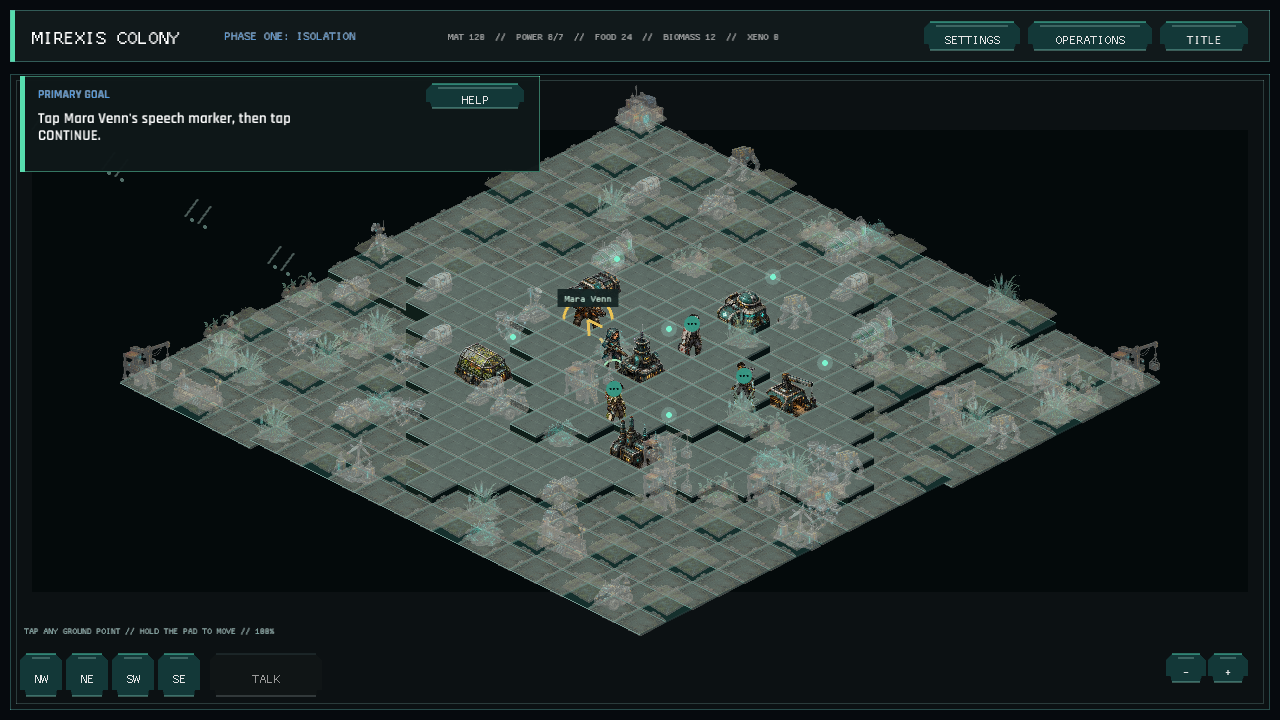
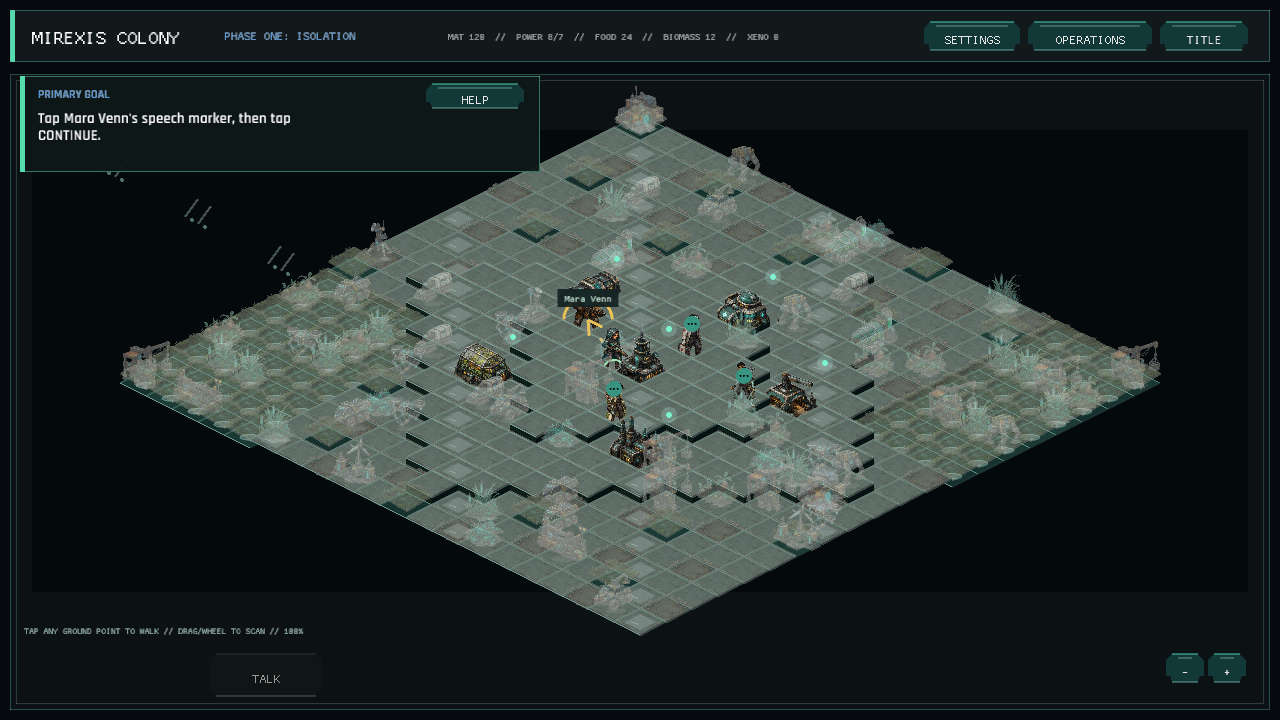
The mire floor remembers its wet ground and every scout finds their footing (map terrain and sprite rendering)
The battlefield and colony floor were relying on repeated dark surfaces, while character grounding and a few authored silhouettes changed scale between scenes. Reuse the existing atlases with deterministic wetland, threshold, and amber surface variants, add isometric surface seams and cliff rims, and give the town shallow basin and inset moss detail. Move contact shadows into the shared VisualCatalog sprite path and normalize the outlier sprite scales so colony inhabitants and tactical units share one visual baseline. Refresh the canonical colony and combat verification captures to record the result.

Verified with cargo test (527 unit tests plus asset registry and code standards), cargo fmt -- --check, git diff --check, the 800-line Rust source audit, and the full publish.ps1 Windows/WebGL preview deployment. The capture harness refreshed ui_colony.png, ui_gameplay.png, and ui_second_operation_tactical.png.

diff --git a/src/colony_map_ui/terrain.rs b/src/colony_map_ui/terrain.rs
@@ -30,15 +30,21 @@ pub(super) fn draw_ground(
         top[2],
         top[1],
     );
-    draw_fill(top, top_color);
+    draw_fill(
+        top,
+        surface_color(top_color, position, view.elevation(position)),
+    );
 
     let pattern = (position[0] * 41 + position[1] * 67).unsigned_abs();
-    let cell = if occupied || view.elevation(position) > 0 {
+    let elevation = view.elevation(position);
+    let cell = if occupied || elevation > 0 {
         0
-    } else if pattern.is_multiple_of(5) {
+    } else if elevation < 0 || pattern % 11 == 0 {
         8
-    } else {
+    } else if pattern % 5 == 0 {
         1
+    } else {
+        0
     };
     let art_size = view.half_width * 2.12;
     visuals.draw_atlas_cell(
@@ -51,8 +57,88 @@ pub(super) fn draw_ground(
             art_size,
             art_size,
         ),
-        Color::new(0.72, 0.88, 0.78, if hovered { 0.80 } else { 0.58 }),
+        terrain_art_tint(cell, hovered),
     );
+    draw_surface_detail(view, center, position, elevation, occupied, hovered);
+}
+
+fn surface_color(base: Color, position: [i32; 2], elevation: i8) -> Color {
+    let variation = ((position[0] * 13 + position[1] * 29).unsigned_abs() % 5) as f32 * 0.008;
+    let lift = f32::from(elevation.max(0)) * 0.012;
+    Color::new(
+        (base.r + variation + lift).min(1.0),
+        (base.g + variation * 1.5 + lift).min(1.0),
+        (base.b + variation + lift * 0.7).min(1.0),
+        base.a,
+    )
+}
+
+fn terrain_art_tint(cell: usize, hovered: bool) -> Color {
+    let alpha = if hovered { 0.84 } else { 0.64 };
+    match cell {
+        8 => Color::new(0.64, 0.92, 0.70, alpha),
+        1 => Color::new(0.84, 0.88, 0.76, alpha),
+        _ => Color::new(0.76, 0.92, 0.82, alpha),
+    }
+}
+
+fn draw_surface_detail(
+    view: ColonyView,
+    center: Vec2,
+    position: [i32; 2],
+    elevation: i8,
+    occupied: bool,
+    hovered: bool,
+) {
+    let pattern = (position[0] * 23 + position[1] * 47).unsigned_abs();
+    if elevation < 0 && !occupied {
+        draw_ellipse(
+            center.x,
+            center.y + view.half_height * 0.18,
+            view.half_width * 0.38,
+            view.half_height * 0.22,
+            0.0,
+            Color::new(0.08, 0.34, 0.32, if hovered { 0.30 } else { 0.20 }),
+        );
+        draw_ellipse_lines(
+            center.x,
+            center.y + view.half_height * 0.18,
+            view.half_width * 0.38,
+            view.half_height * 0.22,
+            0.0,
+            1.0,
+            Color::new(0.24, 0.66, 0.55, if hovered { 0.60 } else { 0.34 }),
+        );
+    } else if !occupied && pattern % 7 == 0 {
+        let patch = [
+            vec2(center.x, center.y - view.half_height * 0.62),
+            vec2(center.x + view.half_width * 0.62, center.y),
+            vec2(center.x, center.y + view.half_height * 0.62),
+            vec2(center.x - view.half_width * 0.62, center.y),
+        ];
+        draw_fill(
+            patch,
+            Color::new(0.10, 0.25, 0.22, if hovered { 0.42 } else { 0.24 }),
+        );
+        draw_line(
+            center.x - view.half_width * 0.34,
+            center.y - view.half_height * 0.02,
+            center.x - view.half_width * 0.08,
+            center.y + view.half_height * 0.18,
+            1.0,
+            Color::new(0.30, 0.64, 0.52, if hovered { 0.52 } else { 0.28 }),
+        );
+    }
+    if elevation > 0 {
+        draw_line(
+            center.x,
+            center.y - view.half_height,
+            center.x + view.half_width * 0.72,
+            center.y - view.half_height * 0.30,
+            1.0,
+            Color::new(0.42, 0.76, 0.60, if hovered { 0.62 } else { 0.34 }),
+        );
+    }
 }
 
 fn diamond(view: ColonyView, center: Vec2) -> [Vec2; 4] {
@@ -90,4 +176,5 @@ fn draw_cliff(view: ColonyView, position: [i32; 2], neighbor: [i32; 2], a: Vec2,
         1.0,
         Color::new(0.22, 0.44, 0.34, 0.55),
     );
+    draw_line(a.x, a.y, b.x, b.y, 1.0, Color::new(0.30, 0.58, 0.46, 0.62));
 }

diff --git a/src/tactical_map_ui.rs b/src/tactical_map_ui.rs
@@ -244,15 +244,15 @@ fn draw_terrain_tile(
     draw_exposed_cliffs(view, position, top);
     let parity = ((position.x * 17 + position.y * 31).unsigned_abs() % 3) as f32;
     let top_color = if blocked {
-        Color::new(0.20 + parity * 0.012, 0.16, 0.12, 1.0)
+        Color::new(0.22 + parity * 0.014, 0.17, 0.12, 1.0)
     } else if elevation >= 2 {
-        Color::new(0.15 + parity * 0.008, 0.23, 0.21, 1.0)
+        Color::new(0.16 + parity * 0.010, 0.27, 0.24, 1.0)
     } else if elevation == 1 {
-        Color::new(0.11 + parity * 0.008, 0.18, 0.17, 1.0)
+        Color::new(0.12 + parity * 0.010, 0.21, 0.19, 1.0)
     } else if elevation < 0 {
-        Color::new(0.045 + parity * 0.005, 0.095, 0.11, 1.0)
+        Color::new(0.05 + parity * 0.006, 0.11, 0.14, 1.0)
     } else {
-        Color::new(0.080 + parity * 0.008, 0.125 + parity * 0.006, 0.125, 1.0)
+        Color::new(0.085 + parity * 0.010, 0.145 + parity * 0.007, 0.145, 1.0)
     };
     draw_diamond_fill(top, top_color);
 
@@ -268,9 +268,11 @@ fn draw_terrain_tile(
             &ctx.visuals.terrain,
             atlas_index,
             art_rect,
-            Color::new(0.92, 0.96, 0.94, if blocked { 0.90 } else { 0.78 }),
+            tactical_terrain_tint(atlas_index, blocked),
         );
     }
+
+    draw_surface_seams(top, position, blocked, elevation);
 
     if terrain_cost > 1 && !blocked {
         draw_projected_hatch(top, Color::new(0.90, 0.58, 0.20, 0.50));
@@ -364,6 +366,38 @@ fn draw_cliff_face(
             Color::new(0.24, 0.47, 0.43, 0.52),
         );
     }
+    draw_line(a.x, a.y, b.x, b.y, 1.5, Color::new(0.30, 0.58, 0.52, 0.60));
+}
+
+fn tactical_terrain_tint(index: usize, blocked: bool) -> Color {
+    if blocked {
+        return Color::new(1.0, 0.93, 0.82, 0.92);
+    }
+    match index {
+        8 => Color::new(0.62, 0.92, 0.76, 0.80),
+        10 => Color::new(1.0, 0.78, 0.52, 0.78),
+        11 => Color::new(0.84, 0.68, 1.0, 0.80),
+        _ => Color::new(0.92, 0.97, 0.94, 0.80),
+    }
+}
+
+fn draw_surface_seams(top: [Vec2; 4], position: TilePos, blocked: bool, elevation: i8) {
+    if blocked {
+        return;
+    }
+    let pattern = (position.x as u32).wrapping_mul(31) ^ (position.y as u32).wrapping_mul(17);
+    if pattern % 5 != 0 {
+        return;
+    }
+    let center = (top[0] + top[2]) * 0.5;
+    let inset = inset_diamond(top, 0.72);
+    let color = if elevation < 0 {
+        Color::new(0.30, 0.74, 0.68, 0.34)
+    } else {
+        Color::new(0.36, 0.60, 0.56, 0.28)
+    };
+    draw_line(inset[3].x, inset[3].y, center.x, center.y, 1.0, color);
+    draw_line(center.x, center.y, inset[1].x, inset[1].y, 1.0, color);
 }
 
 fn terrain_art_index(
@@ -372,14 +406,23 @@ fn terrain_art_index(
     blocked: bool,
     cost: u8,
 ) -> Option<usize> {
+    let pattern =
+        (position.x as u32).wrapping_mul(73_856_093) ^ (position.y as u32).wrapping_mul(19_349_663);
     if blocked {
         return Some(3);
     }
     if cost > 1 {
-        return Some(1);
+        return Some(if pattern % 3 == 0 { 8 } else { 1 });
     }
-    let pattern =
-        (position.x as u32).wrapping_mul(73_856_093) ^ (position.y as u32).wrapping_mul(19_349_663);
+    if position.y > 24 && pattern % 17 == 0 {
+        return Some(8);
+    }
+    if pattern % 29 == 0 {
+        return Some(10);
+    }
+    if pattern % 37 == 0 {
+        return Some(11);
+    }
     if pattern.is_multiple_of(31) {
         Some(
             ctx.visuals

diff --git a/src/visual_assets.rs b/src/visual_assets.rs
@@ -233,12 +233,16 @@ impl VisualCatalog {
             cell.x,
             cell.y,
         );
-        let height = tile_bounds.w * definition.scale;
+        // The source atlases are authored by different passes, so a small
+        // amount of scale normalization keeps silhouettes from jumping in
+        // size when a roster mixes humans, drones, and larger creatures.
+        let height = tile_bounds.w * definition.scale.clamp(1.30, 1.42);
         let width = height * cell.x / cell.y;
         let ground = vec2(
             tile_bounds.x + tile_bounds.w * 0.5,
             tile_bounds.y + tile_bounds.h * 0.72,
         );
+        draw_sprite_shadow(ground, width, height);
         draw_texture_ex(
             texture,
             ground.x - width * definition.pivot[0],
@@ -338,6 +342,17 @@ impl VisualCatalog {
         );
         true
     }
+}
+
+fn draw_sprite_shadow(ground: Vec2, width: f32, height: f32) {
+    draw_ellipse(
+        ground.x + width * 0.04,
+        ground.y + height * 0.025,
+        (width * 0.23).clamp(4.0, 15.0),
+        (height * 0.045).clamp(1.5, 4.0),
+        0.0,
+        Color::new(0.0, 0.01, 0.012, 0.48),
+    );
 }
 
 fn aspect_fit(source: Vec2, destination: Rect) -> Rect {

diff --git a/src/world_art.rs b/src/world_art.rs
@@ -180,12 +180,27 @@ fn draw_concept_cell(
     destination: Rect,
     tint: Color,
 ) {
+    draw_art_grounding(destination, tint);
     visuals.draw_atlas_cell(
         assets,
         visuals.concept_atlas(atlas_id),
         index,
         destination,
         tint,
+    );
+}
+
+fn draw_art_grounding(destination: Rect, tint: Color) {
+    if destination.w > 150.0 || destination.h > 150.0 {
+        return;
+    }
+    draw_ellipse(
+        destination.x + destination.w * 0.54,
+        destination.bottom() - destination.h * 0.12,
+        destination.w * 0.24,
+        destination.h * 0.055,
+        0.0,
+        Color::new(0.0, 0.01, 0.012, 0.28 * tint.a),
     );
 }
 

diff --git a/src/tactical_unit_ui.rs b/src/tactical_unit_ui.rs
@@ -37,14 +37,6 @@ pub(crate) fn draw_unit(
 fn draw_allegiance_base(rect: Rect, accent: Color, selected: bool, hostile_notches: bool) {
     let center = vec2(rect.x + rect.w * 0.5, rect.y + rect.h * 0.70);
     draw_ellipse(
-        center.x + 2.0,
-        center.y + 3.0,
-        rect.w * 0.30,
-        rect.h * 0.22,
-        0.0,
-        Color::new(0.0, 0.0, 0.0, 0.48),
-    );
-    draw_ellipse(
         center.x,
         center.y,
         rect.w * 0.29,

diff --git a/src/colony_exploration.rs b/src/colony_exploration.rs
@@ -499,14 +499,6 @@ fn draw_character(context: CharacterDrawContext<'_>) {
         visuals,
         zoom,
     } = context;
-    draw_ellipse(
-        center.x,
-        center.y + 5.0,
-        7.0 * zoom,
-        3.0 * zoom,
-        0.0,
-        Color::new(0.0, 0.0, 0.0, 0.42),
-    );
     if hovered {
         draw_circle(
             center.x,
